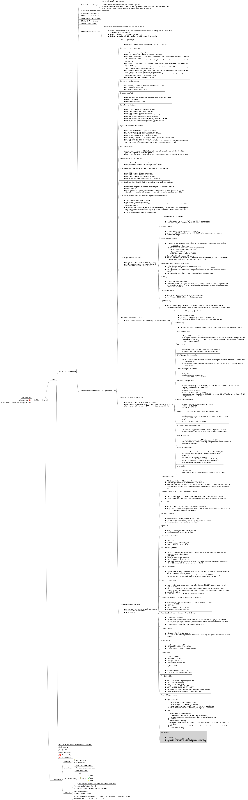
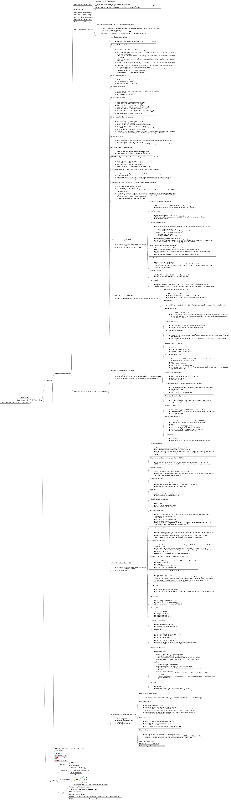
extended ATPL mind map

diff --git a/ATPL/ATPL.mm b/ATPL/ATPL.mm
@@ -815,8 +815,7 @@
       </li>
     </ul>
   </body>
-</html>
-</richcontent>
+</html></richcontent>
 </node>
 <node CREATED="1569282090422" ID="ID_1714540541" MODIFIED="1569282210016">
 <richcontent TYPE="NODE"><html>
@@ -871,8 +870,7 @@
       </li>
     </ul>
   </body>
-</html>
-</richcontent>
+</html></richcontent>
 </node>
 <node CREATED="1569282848364" ID="ID_1839277223" MODIFIED="1569283058524">
 <richcontent TYPE="NODE"><html>
@@ -1083,8 +1081,7 @@
       </li>
     </ul>
   </body>
-</html>
-</richcontent>
+</html></richcontent>
 </node>
 <node CREATED="1569355545849" ID="ID_1836421546" MODIFIED="1569355877937">
 <richcontent TYPE="NODE"><html>
@@ -1110,8 +1107,7 @@
       </li>
     </ul>
   </body>
-</html>
-</richcontent>
+</html></richcontent>
 </node>
 <node CREATED="1569357621019" ID="ID_1746123140" MODIFIED="1569357701696">
 <richcontent TYPE="NODE"><html>
@@ -1134,8 +1130,7 @@
       </li>
     </ul>
   </body>
-</html>
-</richcontent>
+</html></richcontent>
 </node>
 <node CREATED="1569358234733" ID="ID_67926328" MODIFIED="1569358348095">
 <richcontent TYPE="NODE"><html>
@@ -1161,8 +1156,7 @@
       </li>
     </ul>
   </body>
-</html>
-</richcontent>
+</html></richcontent>
 </node>
 <node CREATED="1569358260400" ID="ID_1507685893" MODIFIED="1569358731141">
 <richcontent TYPE="NODE"><html>
@@ -1194,8 +1188,7 @@
       </li>
     </ul>
   </body>
-</html>
-</richcontent>
+</html></richcontent>
 </node>
 <node CREATED="1569358813534" ID="ID_886476863" MODIFIED="1569359033197">
 <richcontent TYPE="NODE"><html>
@@ -1218,8 +1211,7 @@
       </li>
     </ul>
   </body>
-</html>
-</richcontent>
+</html></richcontent>
 </node>
 <node CREATED="1569359200071" ID="ID_1154435980" MODIFIED="1569359538789">
 <richcontent TYPE="NODE"><html>
@@ -1248,8 +1240,7 @@
       </li>
     </ul>
   </body>
-</html>
-</richcontent>
+</html></richcontent>
 </node>
 <node CREATED="1569359591189" ID="ID_1576858109" MODIFIED="1569359986264">
 <richcontent TYPE="NODE"><html>
@@ -1281,8 +1272,7 @@
       </li>
     </ul>
   </body>
-</html>
-</richcontent>
+</html></richcontent>
 </node>
 <node CREATED="1569360171586" ID="ID_225937438" MODIFIED="1569362742956">
 <richcontent TYPE="NODE"><html>
@@ -1308,8 +1298,7 @@
       </li>
     </ul>
   </body>
-</html>
-</richcontent>
+</html></richcontent>
 </node>
 <node CREATED="1569360189484" ID="ID_808169418" MODIFIED="1569360675928">
 <richcontent TYPE="NODE"><html>
@@ -1332,8 +1321,7 @@
       </li>
     </ul>
   </body>
-</html>
-</richcontent>
+</html></richcontent>
 </node>
 <node CREATED="1569361563715" ID="ID_315051367" MODIFIED="1569361692540">
 <richcontent TYPE="NODE"><html>
@@ -1359,8 +1347,7 @@
       </li>
     </ul>
   </body>
-</html>
-</richcontent>
+</html></richcontent>
 </node>
 <node CREATED="1569361730439" ID="ID_792947167" MODIFIED="1569361809835">
 <richcontent TYPE="NODE"><html>
@@ -1389,8 +1376,7 @@
       </li>
     </ul>
   </body>
-</html>
-</richcontent>
+</html></richcontent>
 </node>
 <node CREATED="1569361878212" ID="ID_783316254" MODIFIED="1569361937219">
 <richcontent TYPE="NODE"><html>
@@ -1413,8 +1399,7 @@
       </li>
     </ul>
   </body>
-</html>
-</richcontent>
+</html></richcontent>
 </node>
 <node CREATED="1569361992479" ID="ID_792849820" MODIFIED="1569362535612">
 <richcontent TYPE="NODE"><html>
@@ -1452,8 +1437,7 @@
       </li>
     </ul>
   </body>
-</html>
-</richcontent>
+</html></richcontent>
 </node>
 <node CREATED="1569363455457" ID="ID_259476876" MODIFIED="1569364473941">
 <richcontent TYPE="NODE"><html>
@@ -1515,8 +1499,7 @@
       </li>
     </ul>
   </body>
-</html>
-</richcontent>
+</html></richcontent>
 </node>
 <node CREATED="1569364534432" ID="ID_886033734" MODIFIED="1569364645827">
 <richcontent TYPE="NODE"><html>
@@ -1542,9 +1525,146 @@
       </li>
     </ul>
   </body>
+</html></richcontent>
+</node>
+</node>
+<node CREATED="1569439775195" ID="ID_1537078320" MODIFIED="1569440261620">
+<richcontent TYPE="NODE"><html>
+  <head>
+    
+  </head>
+  <body>
+    <p>
+      Private Operator Passenger Transport
+    </p>
+    <p>
+      
+    </p>
+    <ul>
+      <li>
+        large aeroplanes
+      </li>
+      <li>
+        turbine-powered aircraft
+      </li>
+      <li>
+        pressurized aircraft
+      </li>
+      <li>
+        multi-engine aircraft
+      </li>
+    </ul>
+  </body>
+</html>
+</richcontent>
+<node CREATED="1569440668451" ID="ID_984153876" MODIFIED="1569441122544">
+<richcontent TYPE="NODE"><html>
+  <head>
+    
+  </head>
+  <body>
+    <p>
+      Operational Control System
+    </p>
+    <p>
+      
+    </p>
+    <ul>
+      <li>
+        records have to be retained for 180 days (6 months) after the day of a completed flight
+      </li>
+    </ul>
+  </body>
 </html>
 </richcontent>
 </node>
+<node CREATED="1569441153283" ID="ID_237636273" MODIFIED="1569441589324">
+<richcontent TYPE="NODE"><html>
+  <head>
+    
+  </head>
+  <body>
+    <p>
+      Flight Attendants
+    </p>
+    <p>
+      
+    </p>
+    <ul>
+      <li>
+        min. 1 for more than 12 PAX
+      </li>
+      <li>
+        min. 1 for each unit of 40 PAX or portion thereof
+      </li>
+      <li>
+        exception: 1 for an aircraft with 50 PAX seats or fewer if evacuation possible in 90 seconds (aircraft certificate, FA seat emergency exit, public address system)
+      </li>
+      <li>
+        exception: 0 for an aircraft with 13-19 PAX if two pilot crew, cabin access, and cockpit-cabin communication possible
+      </li>
+    </ul>
+  </body>
+</html>
+</richcontent>
+</node>
+<node CREATED="1569443249485" ID="ID_1915761200" MODIFIED="1569443344317">
+<richcontent TYPE="NODE"><html>
+  <head>
+    
+  </head>
+  <body>
+    <p>
+      Flight Time Limits
+    </p>
+    <p>
+      
+    </p>
+    <ul>
+      <li>
+        max. 1200 hours in 12 consecutive months
+      </li>
+      <li>
+        max. 300 hours in 90 consecutive days
+      </li>
+      <li>
+        max. 120 hours in 30 consecutive days
+      </li>
+      <li>
+        max. 8 hours in 24 consecutive hours if single-pilot IFR
+      </li>
+    </ul>
+  </body>
+</html>
+</richcontent>
+</node>
+<node CREATED="1569443258041" ID="ID_451803918" MODIFIED="1569443562408">
+<richcontent TYPE="NODE"><html>
+  <head>
+    
+  </head>
+  <body>
+    <p>
+      Flight Duty Limits
+    </p>
+    <p>
+      
+    </p>
+    <ul>
+      <li>
+        max. 14 consecutive hours in 24 consecutive hours
+      </li>
+      <li>
+        max. 15 consecutive hours in 24 consecutive hours if max. 70 hours flight duty in the previous 30 consecutive days and min. 24 hours rest before flight duty
+      </li>
+    </ul>
+  </body>
+</html>
+</richcontent>
+</node>
+<node CREATED="1569443788565" ID="ID_407672218" MODIFIED="1569443796796" TEXT="Split Flight Duty Time"/>
+<node CREATED="1569443807610" ID="ID_277989001" MODIFIED="1569443814697" TEXT="Extension of Flight Duty Time"/>
+<node CREATED="1569443837252" ID="ID_685235874" MODIFIED="1569443875600" TEXT="Unforseen Operational Circumstances"/>
 </node>
 </node>
 </node>
